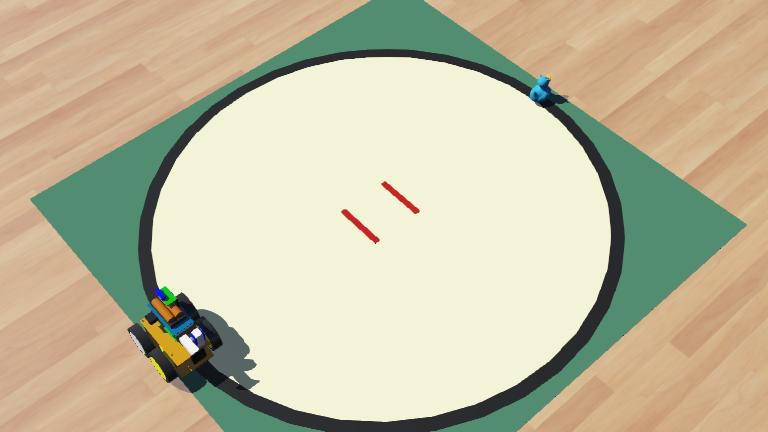
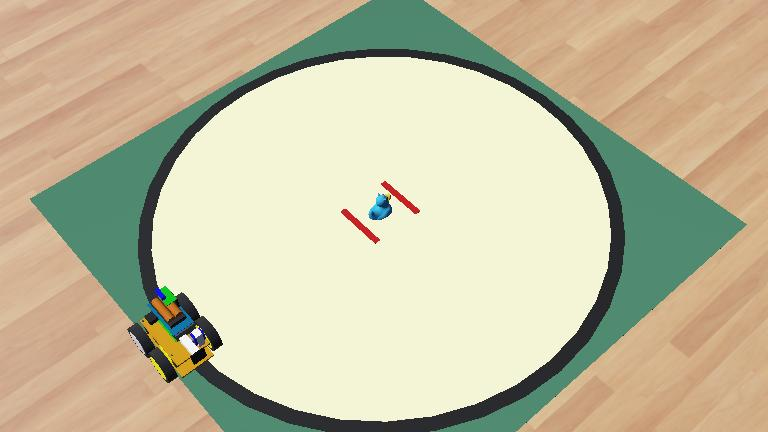
Random Placement In Sumo & 4th Challenge

Changed region(s): [[0.1562, 0.662, 0.3438, 0.9028], [0.4375, 0.4213, 0.5312, 0.5718], [0.6875, 0.1505, 0.75, 0.2708]]

diff --git a/Webots/controllers/random_placement/random_placement.py b/Webots/controllers/random_placement/random_placement.py
@@ -42,18 +42,81 @@ while True:
 
 node = robot.getFromDef('Random_0')
 if node.getField('customData').getSFString() == 'true' or node.getField('customData').getSFString() == 'True':
+    type = robot.getName()
     
-    node = robot.getFromDef('Random_' + str(i-1))
-    translation_field = node.getField('translation')
-    
-    position = [.15, 0.0, node.getPosition()[2]];
-    angle = random.uniform(0.0, 3.14159265358)#Spawn in half circle
-    distance = random.uniform(0.0, 1.0)
-    
-    #Sets value and incliments to next random node
-    new_value = [math.sin(angle) * distance * .25 + position[0], 
-    math.cos(angle) * distance * .38 + position[1], position[2]]
-    translation_field.setSFVec3f(new_value)
-    rotation_field = node.getField('rotation')
-    rotation_field.setSFRotation([0.0, 0.0, 1.0, random.uniform(0.0, 6.28318530718)])
-    node.resetPhysics()
+    if type[0] == '1':#Track
+        translation_field = node.getField('translation')
+        translation_field.setSFVec3f([-.45, 0.0, node.getPosition()[2]])
+        node.resetPhysics()
+        
+        node = robot.getFromDef('Duck')
+        translation_field = node.getField('translation')
+        
+        angle = random.uniform(-1.15, 4.2)
+        position = [math.sin(angle) * 0.44, 
+        math.cos(angle) * 0.44, node.getPosition()[2]]
+
+        translation_field.setSFVec3f(position)
+        
+        rotation_field = node.getField('rotation')
+        rotation_field.setSFRotation([0.0, 0.0, 1.0, random.uniform(0.0, 6.28318530718)])
+        
+        node.resetPhysics()
+        
+    elif type[0] == '2':#All
+        i = 1
+        angles = []
+        distances = []
+        while True:
+            node = robot.getFromDef('Random_' + str(i))
+            if node is None:
+                break;
+            
+            translation_field = node.getField('translation')
+            
+            angle = 0.0
+            distance = 0.0
+            position = [0.0, 0.0, 0.0]
+            while True:
+                angle = random.uniform(0.0, 6.28318530718)
+                distance = random.uniform(0.15, 0.35)
+                position = [math.sin(angle) * distance, 
+                math.cos(angle) * distance, node.getPosition()[2]]
+                
+                safe = True
+                j = 0
+                while j < len(angles):
+                    direction = [math.sin(angles[j]) * distances[j] - position[0], 
+                    math.cos(angles[j]) * distances[j] - position[1]]
+                    
+                    if pow(pow(direction[0], 2) + pow(direction[1], 2), 0.5) < 0.1:
+                        safe = False
+                        break
+                    j+=1
+                if safe:
+                    break
+            
+            angles.append(angle)
+            distances.append(distance)
+            translation_field.setSFVec3f(position)
+            
+            rotation_field = node.getField('rotation')
+            rotation_field.setSFRotation([0.0, 0.0, 1.0, random.uniform(0.0, 6.28318530718)])
+            
+            node.resetPhysics()
+            i+=1
+    else:#Duck
+        node = robot.getFromDef('Random_' + str(i-1))
+        translation_field = node.getField('translation')
+        
+        position = [.15, 0.0, node.getPosition()[2]];
+        angle = random.uniform(0.0, 3.14159265358)#Spawn in half circle
+        distance = random.uniform(0.0, 1.0)
+        
+        #Sets value and incliments to next random node
+        new_value = [math.sin(angle) * distance * .25 + position[0], 
+        math.cos(angle) * distance * .38 + position[1], position[2]]
+        translation_field.setSFVec3f(new_value)
+        rotation_field = node.getField('rotation')
+        rotation_field.setSFRotation([0.0, 0.0, 1.0, random.uniform(0.0, 6.28318530718)])
+        node.resetPhysics()

diff --git a/Webots/controllers/robot_tracker/robot_tracker.py b/Webots/controllers/robot_tracker/robot_tracker.py
@@ -5,12 +5,13 @@ import math
 # create the Robot instance.
 robot = Supervisor()
 timestep = int(robot.getBasicTimeStep())
-node = robot.getFromDef('robot')
+node = robot.getFromDef('Random_0')
 
 radius = .45
 maxError = .075
 endAngle = 3.14159265358
 moved = False
+
 while robot.step(timestep) != -1:
     
     translation_field = node.getField('translation')
@@ -18,7 +19,7 @@ while robot.step(timestep) != -1:
     position = node.getPosition()
     magnitude = math.sqrt(pow(position[0], 2) + pow(position[1], 2))
     if abs(magnitude - radius) > maxError:
-        print(AnsiCodes.YELLOW_FOREGROUND + "Failed: Robot out of bounds...")#\x1b[33m
+        print(AnsiCodes.YELLOW_FOREGROUND + "Failed: Robot out of bounds..." + AnsiCodes.RESET)#\x1b[33m
         robot.simulationSetMode(0)
         break
     
@@ -28,7 +29,7 @@ while robot.step(timestep) != -1:
         if angle < 0:
             angle += 2 * math.pi
         if angle > 3.14159265358:
-            print(AnsiCodes.GREEN_FOREGROUND + "Gate sensor hit at: " + str(robot.getTime()))
+            print(AnsiCodes.GREEN_FOREGROUND + "Gate sensor hit at: " + str(robot.getTime()) + AnsiCodes.RESET)
             robot.simulationSetMode(0)
             break
     elif position[0] > .1 and position[1] > .1:

diff --git a/Webots/controllers/sumo_controller/sumo_controller.py b/Webots/controllers/sumo_controller/sumo_controller.py
@@ -75,6 +75,9 @@ if __name__ == "__main__":
     camera_motor.maxPosition = camera_max_position
     camera_motor.minPosition = camera_min_position
 
+    #Set random object placement (change to 'True' or 'False')
+    robot.custom_data = 'False'
+
     #Main Loop while simulation is running
     while robot.step(time_step) != -1:
         #Code goes here

diff --git a/Webots/controllers/fourth_challenge_controller/fourth_challenge_controller.py b/Webots/controllers/fourth_challenge_controller/fourth_challenge_controller.py
@@ -75,6 +75,9 @@ if __name__ == "__main__":
     camera_motor.maxPosition = camera_max_position
     camera_motor.minPosition = camera_min_position
 
+    #Set random duck placement (change to 'True' or 'False')
+    robot.custom_data = 'False'
+
     #Main Loop while simulation is running
     while robot.step(time_step) != -1:
         #Code goes here
